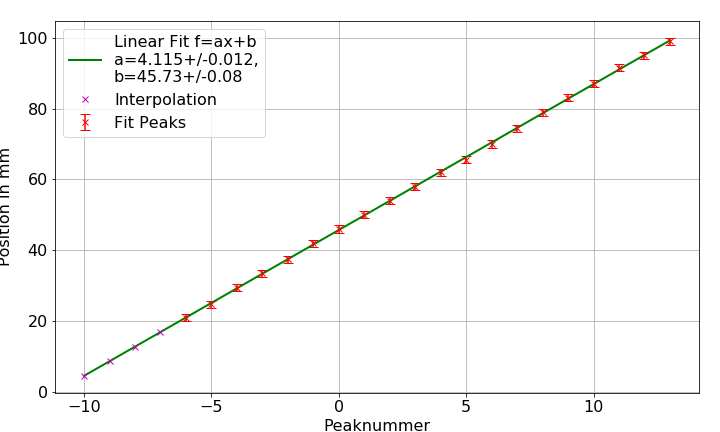
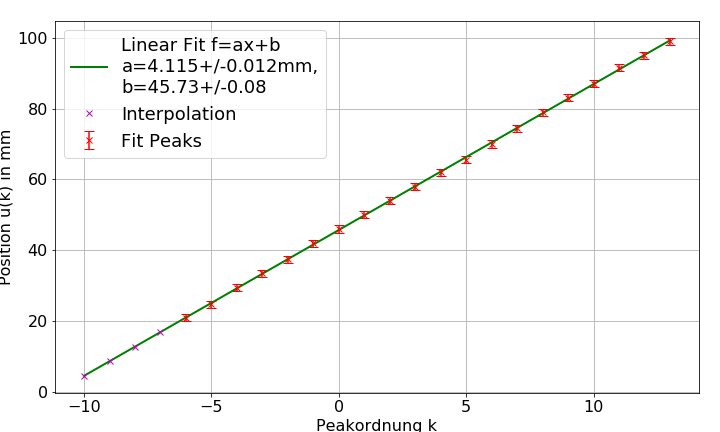
OFT 2 done

diff --git a/OFT/BA-C-04_OFT_17-06-2019.tex b/OFT/BA-C-04_OFT_17-06-2019.tex
@@ -170,11 +170,12 @@
 	\begin{equation}
 		b \cdot \sin{\theta} = k \lambda
 	\end{equation}
-	Für kleines $\theta$ gilt $\theta \approx \sin{\theta} \approx \tan{\theta}=\frac{u}{h}$, wobei $u$ der Abstand eines Maximas der Ordnung $k$ zur nullten Ordnung ist und somit:
+	Für kleines $\theta$ gilt $\theta \approx \sin{\theta} \approx \tan{\theta}=\frac{u}{d}$, wobei $u$ der Abstand eines Maximas der Ordnung $k$ zur nullten Ordnung ist und somit:
 	\begin{equation}
-		b = \frac{k\lambda h}{u}
+		\label{eq_beug}
+		b = \frac{k\lambda d}{u}
 	\end{equation}
-	$h$ ist dabei der Abstand zwischen Gitter und Schirm.
+	$d$ ist dabei der Abstand zwischen Gitter und Schirm.
 
 	\subsection{4-f-Aufbau}
 	Um eine Filterung einzelner Frequenzen aus einer optischen Fouriertransformation zu erlauben, kann der sog. 4-f-Aufbau verwendet werden.
@@ -385,6 +386,20 @@
 	\subsubsection*{Beobachtung und Datenanalyse}
 	% Allgemeine Beobachtungen
 	% Einflüsse von veränderten Parametern auf Messung
+ In \cref{fig_2_mix_1} sind die Intensitätsprofile mit Fits zum Bestimmen der Gitterkonstante von fünf Gittern aufgeführt.
+ Diese wird ermittelt durch Auftragen der Position der Peaks gegen die Peakordnung.
+ In den Grafiken sind in rot die Positionen der Peaks markiert, deren Position ist nicht immer eindeutig, unter anderem wegen der Überbelichtung, welche jedoch nötig ist um höhere Peaks sichtbar zu machen, und die Unsicherheit wird mit \SI{1}{mm} abgeschätzt.
+ In lila sind extrapolierte erwartete Peakpositionen markiert.
+
+ Gemäß \cref{eq_beug} ist für kleine Winkel bzw. $k$:
+ \begin{equation}
+	 \label{eq_beug_verschieb}
+	 u(k) = \frac{k\lambda d}{b} + \text{Verschiebung}
+ \end{equation}
+ Die Verschiebung ist Null wenn man Abstände von dem nullten Maximum misst und kann hier vernachlässigt werden, da die Information über die Gitterkonstante $b$ in der Steigung von der Geraden $u(k)$.
+
+ Nun kann man nach \cref{eq_beug_verschieb} mit Abstand $d=\SI{2.715}{m}$ und Wellenlänge $\lambda=\SI{632.8}{nm}$ die Steigung $a$ in die Gitterkonstante $b=\lambda d/a$ umrechnen.
+ Die Ergebnisse für die jeweiligen Gitter sind in \cref{tb_2_beug} aufgelistet.
 
 \begin{figure}[H]
         \centering
@@ -392,7 +407,7 @@
             \centering
             \includegraphics[width=\textwidth]{img/2/2_gitter_g1}
             \caption%
-            {Profil, Gitter g1}
+            {Profil, Gitter 1}
             \label{fig_2_profil_g1}
         \end{subfigure}
         \hfill
@@ -400,14 +415,14 @@
             \centering
             \includegraphics[width=\textwidth]{img/2/2_gitter_g1_fit}
             \caption[]%
-            {Fit, Gitter g1}
+            {Fit, Gitter 1}
             \label{fig_2_fit_g1}
         \end{subfigure}
         \begin{subfigure}[b]{0.475\textwidth}
             \centering
             \includegraphics[width=\textwidth]{img/2/2_gitter_g2}
             \caption%
-            {Profil, Gitter g2}
+            {Profil, Gitter 2}
             \label{fig_2_profil_g2}
         \end{subfigure}
         \hfill
@@ -415,14 +430,14 @@
             \centering
             \includegraphics[width=\textwidth]{img/2/2_gitter_g2_fit}
             \caption[]%
-            {Fit, Gitter g2}
+            {Fit, Gitter 2}
             \label{fig_2_fit_g2}
         \end{subfigure}
         \begin{subfigure}[b]{0.475\textwidth}
             \centering
             \includegraphics[width=\textwidth]{img/2/2_gitter_g3}
             \caption%
-            {Profil, Gitter g3}
+            {Profil, Gitter 3}
             \label{fig_2_profil_g3}
         \end{subfigure}
         \hfill
@@ -430,12 +445,12 @@
             \centering
             \includegraphics[width=\textwidth]{img/2/2_gitter_g3_fit}
             \caption[]%
-            {Fit, Gitter g3}
+            {Fit, Gitter 3}
             \label{fig_2_fit_g3}
         \end{subfigure}
         \caption%
         {
-				Kameraaufnahmen und Intensitätsprofile für verschiedene Gitter.
+				Intensitätsprofile und Peakfits für verschiedene Gitter.
 				Die x-Achse \enquote{Position} sagt nichts über die absolute Position des Maximums aus, sondern dient lediglich dem Bestimmen von Abständen zwischen Peaks.
 				}
         \label{fig_2_mix_1}
@@ -447,7 +462,7 @@
             \centering
             \includegraphics[width=\textwidth]{img/2/2_gitter_g4}
             \caption%
-            {Profil, Gitter g4}
+            {Profil, Gitter 4}
             \label{fig_2_profil_g4}
         \end{subfigure}
         \hfill
@@ -455,14 +470,14 @@
             \centering
             \includegraphics[width=\textwidth]{img/2/2_gitter_g4_fit}
             \caption[]%
-            {Fit, Gitter g4}
+            {Fit, Gitter 4}
             \label{fig_2_fit_g4}
         \end{subfigure}
         \begin{subfigure}[b]{0.475\textwidth}
             \centering
             \includegraphics[width=\textwidth]{img/2/2_gitter_g5}
             \caption%
-            {Profil, Gitter g5}
+            {Profil, Gitter 5}
             \label{fig_2_profil_g5}
         \end{subfigure}
         \hfill
@@ -470,16 +485,28 @@
             \centering
             \includegraphics[width=\textwidth]{img/2/2_gitter_g5_fit}
             \caption[]%
-            {Fit, Gitter g5}
+            {Fit, Gitter 5}
             \label{fig_2_fit_g5}
         \end{subfigure}
         \caption%
         {
-				Kameraaufnahmen und Intensitätsprofile für verschiedene Gitter.
+				Intensitätsprofile und Peakfits für verschiedene Gitter.
 				Die x-Achse \enquote{Position} sagt nichts über die absolute Position des Maximums aus, sondern dient lediglich dem Bestimmen von Abständen zwischen Peaks. (Forts.)
 				}
         \label{fig_2_mix_2}
     \end{figure}
+
+\begin{table}[H]
+		\centering
+		\begin{tabular}{ c | c | c }
+			 Gitternummer & Steigung $a$ in \si{mm} & Gitterkonstante $b$ in \si{mm} \\ \hline
+			 \input{res/tb_2_beug}
+		\end{tabular}
+		\caption{
+		Aus der Steigung $a$ mit \cref{eq_beug} berechnete Gitterkonstanten $b$.
+		}
+		\label{tb_2_beug}
+\end{table}
 	\subsubsection*{Diskussion}
 	% Bezug/Nutzen oder sonst was
 	% auch hier die Hypothese wiederholen
@@ -533,6 +560,7 @@ Der Schirm muss natürlich im Fokus der Linse stehen, damit das Bild scharf ist.
 			}
 			\label{fig_4f}
 	\end{figure}
+
 
 		Zunächst wird der Schriftzug \enquote{Fourier} überlagert mit einem senkrechten Gitter als Objekt verwendet.
 		Durch einen Tiefpassfilter wird dieser aus dem Bild entfernt.

diff --git a/OFT/scripts/gen.py b/OFT/scripts/gen.py
@@ -107,6 +107,27 @@ def fit_curvefit2(datax, datay, function, p0=None, yerr=None, **kwargs):
     perr_curvefit = np.array(error)
     return unp.uarray(pfit_curvefit, perr_curvefit)
 
+def out_si(fn,s,u=""):
+    file = open(fn,"w")
+    file.write(("\\SI{%s}{%s}"%(("%s"%(s)).replace("/",""),u)))
+    print(fn,": ", "%s"%(s))
+    file.close()
+
+def out(fn,s):
+    file = open(fn,"w")
+    file.write(("%s"%(s)).replace("/",""))
+    print(fn,": ", "%s"%(s))
+    file.close()
+
+def out_si_tab(fn, tab):
+    file = open(fn,"w")
+    for i in range(len(tab)):
+        for j in range(len(tab[i])):
+            if(j!=0):
+                file.write("&")
+            file.write("\\SI{%s}{}"%(("%s"%(tab[i][j])).replace("/","")))
+        file.write("\\\\\n")
+    file.close()
 # usage zB:
 # pfit, perr = fit_curvefit(unv(xdata), unv(ydata), gerade, yerr = usd(ydata), p0 = [1, 0])
 # fuer eine gerade mit anfangswerten m = 1, b = 0
@@ -151,6 +172,8 @@ for name in names:
 
 # %% fit pyplot
 names = glob.glob("OFT/data/2/*.txt")
+resa = []
+git = []
 for name in names:
     data = np.loadtxt(name, skiprows = 4, usecols=(0,1), delimiter = ";")
     nname =os.path.basename(name)
@@ -166,24 +189,29 @@ for name in names:
 
 
     if nnname=="2_gitter_g1":
+        git.append(1)
         xs = [3,6.25,9,12,15,17.5,20.5,23.5,26.25]
         center = 4
     if nnname=="2_gitter_g2":
+        git.append(2)
         xs = [21,24.75,29.5,33.5,37.5,42,46,50,54,58,62,65.5,70,74.5,79,83,87,91.5,95,99]
         before = 4
         after = 0
         center = 6
     if nnname=="2_gitter_g3":
+        git.append(3)
         xs = [4.5,10,15,20,26,32,38,44,50,56,62.5,68,74,79,85,91,97.5,102]
         before = 0
         after = 0
         center = 6
     if nnname=="2_gitter_g4":
+        git.append(4)
         xs = [3,9,15,20,25.5,30.5,37,42,48,54.5,60,66,71,77.5,83,90,94.5,100]
         before = 0
         after = 0
         center = 6
     if nnname=="2_gitter_g5":
+        git.append(5)
         xs = [2.5,9,16,23,30.5,37.5,45,52,60,67.5,75,82.5,90,98,105]
         center = 7
     for x in xs:
@@ -198,7 +226,7 @@ for name in names:
     xfit = np.linspace(xd[0]-before,xd[-1]+after,4000)
     yfit = gerade(xfit, *unv(fit))
 
-
+    resa.append(fit[0])
     bx =[]
     by =[]
     for i in range(before):
@@ -223,7 +251,7 @@ for name in names:
     fig=plt.figure(figsize=fig_size)
 
     plt.errorbar(xd,xs,yerr=yrr, fmt='x',capsize=5, label="Fit Peaks",color='r')
-    plt.plot(unv(xfit), unv(yfit), color = 'green',linewidth=2, label='Linear Fit f=ax+b\na=%s,\nb=%s'%(fit[0],fit[1]))
+    plt.plot(unv(xfit), unv(yfit), color = 'green',linewidth=2, label='Linear Fit f=ax+b\na=%smm,\nb=%s'%(fit[0],fit[1]))
 
 
     if len(bx)>0:
@@ -233,9 +261,16 @@ for name in names:
     plt.grid()
     plt.legend(prop={'size':fig_legendsize})
     plt.tight_layout()
-    plt.ylabel('Position in mm')
+    plt.ylabel('Position u(k) in mm')
     plt.tick_params(labelsize=fig_labelsize)
 
-    plt.xlabel('Peaknummer')
+    plt.xlabel('Peakordnung k')
     plt.savefig("OFT/img/2/%s"%(nnname + "_fit.png"))
     plt.show()
+
+# %% Table
+l = 632.8e-9
+d = 2.715
+print(resa)
+uresa = unp.uarray(unv(resa),usd(resa))
+out_si_tab("OFT/res/tb_2_beug", np.transpose([git,resa,d*l/(uresa/1000)*1000]))
